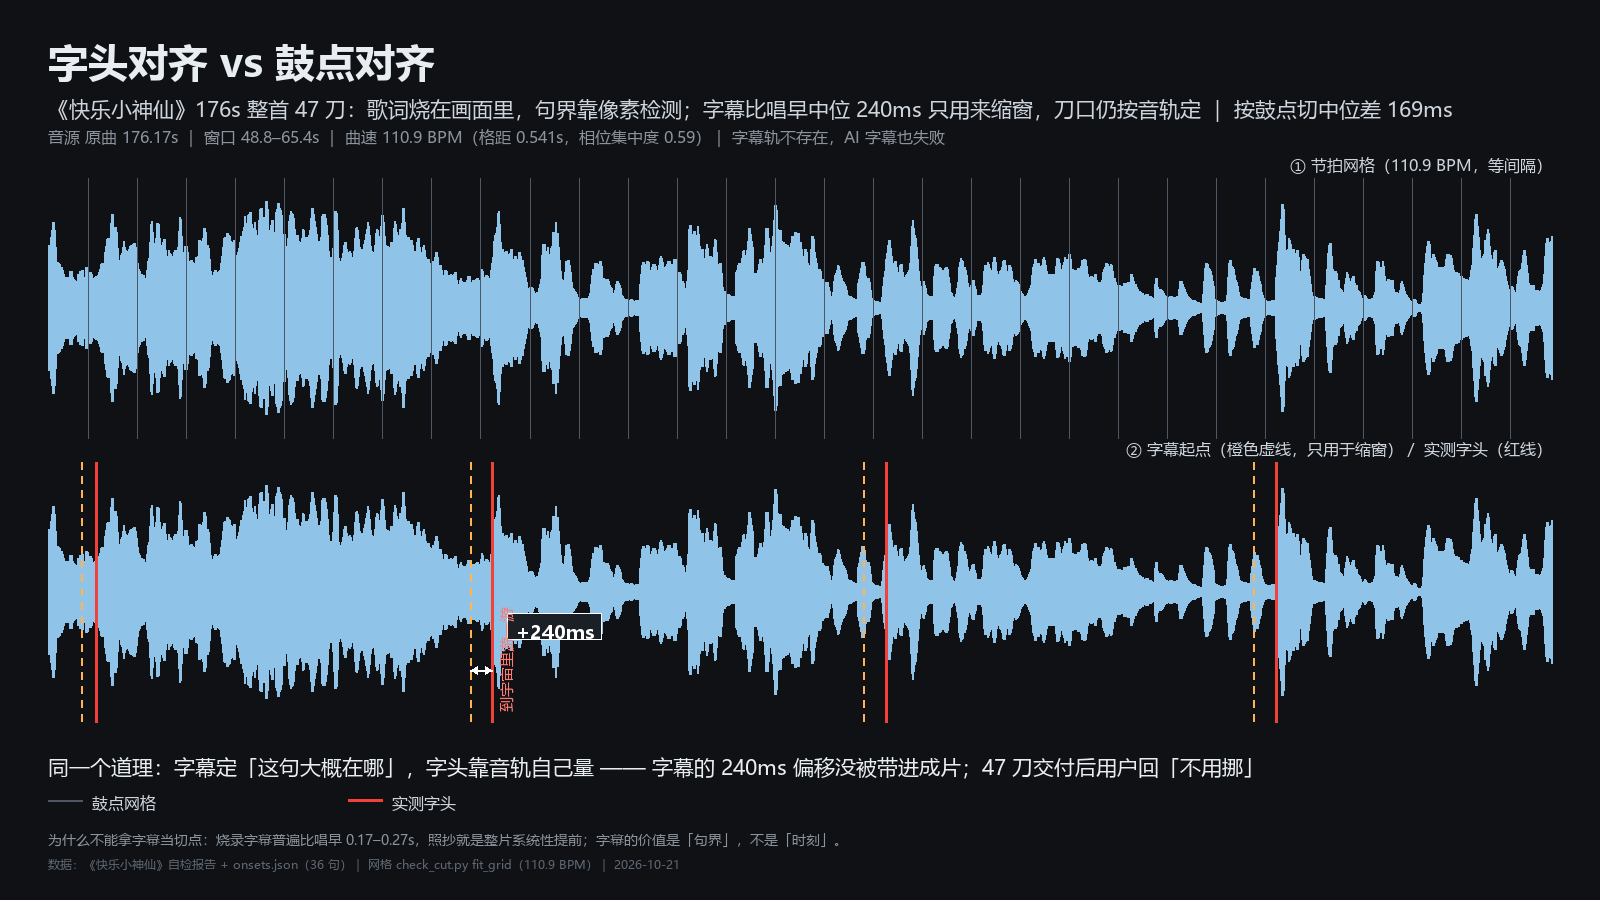
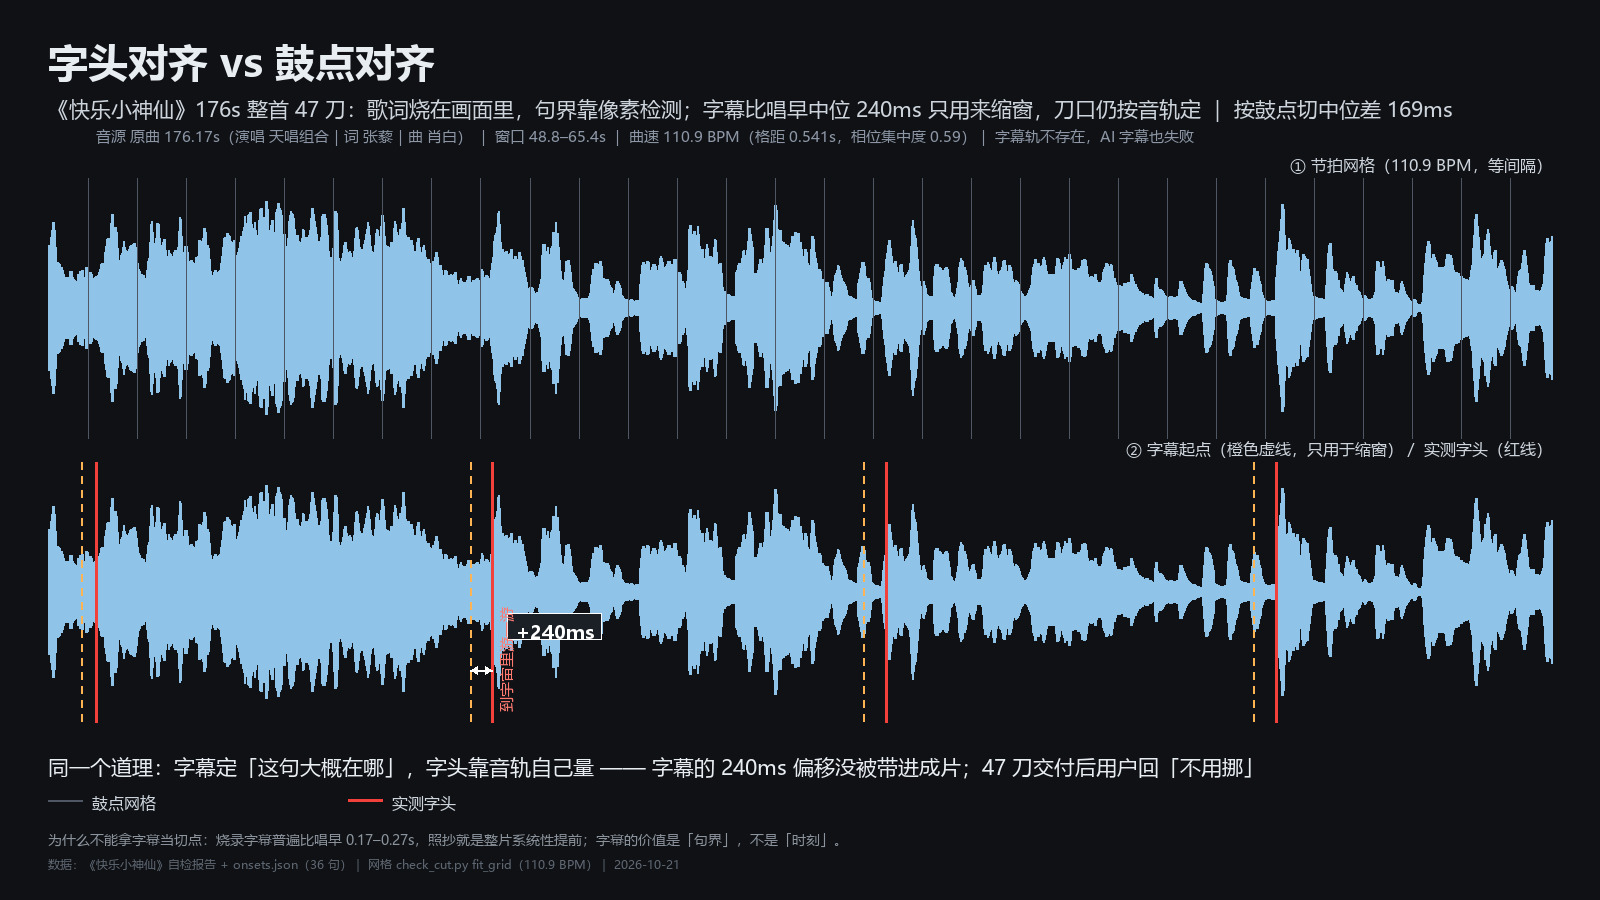
Credit performers and writers on every case and figure; drop the portrait-consent rule from the skill

Changed region(s): [[0.0312, 0.1244, 0.5938, 0.1556], [0.625, 0.1244, 0.75, 0.1556]]

diff --git a/showcase/_tools/render_cutproof.py b/showcase/_tools/render_cutproof.py
@@ -95,7 +95,7 @@ def render_tuimen():
     cuts=[13.30,16.60,20.15,23.35,27.15,30.70]
     img,d=frame("字头对齐 vs 鼓点对齐",
       "《推开世界的门》55s 版 6 个歌词刀：切点贴在「人耳听到的落点」，比检测器报的持续段上升沿晚中位 245ms ｜ 若把刀改贴最近网格线，中位差 214ms",
-      "音源 成片音轨 55.00s ｜ 窗口 12.6–31.9s ｜ 曲速 70.0 BPM（格距 0.857s，相位集中度 0.60）｜ 网格＝低频拟合，非人工标拍")
+      "音源 成片音轨 55.00s（演唱 杨乃文｜词曲 火星电台 / 黄少峰） ｜ 窗口 12.6–31.9s ｜ 曲速 70.0 BPM（格距 0.857s，相位集中度 0.60）｜ 网格＝低频拟合，非人工标拍")
     AU,AD=178,438; BU,BD=462,722
     wave_panel(d,AU,AD,e,tt,T0,T1); grid_lines(d,PH,P,T0,T1,AU,AD)
     d.text((X1,AU-24),"① 节拍网格（70.0 BPM，等间隔）",font=F(16),fill=SUB,anchor="ra")
@@ -130,7 +130,7 @@ def render_kuaile():
     pick=[r for r in rows if T0<=r["onset"]<=T1]
     img,d=frame("字头对齐 vs 鼓点对齐",
       "《快乐小神仙》176s 整首 47 刀：歌词烧在画面里，句界靠像素检测；字幕比唱早中位 240ms 只用来缩窗，刀口仍按音轨定 ｜ 按鼓点切中位差 169ms",
-      "音源 原曲 176.17s ｜ 窗口 48.8–65.4s ｜ 曲速 110.9 BPM（格距 0.541s，相位集中度 0.59）｜ 字幕轨不存在，AI 字幕也失败")
+      "音源 原曲 176.17s（演唱 天唱组合｜词 张藜｜曲 肖白） ｜ 窗口 48.8–65.4s ｜ 曲速 110.9 BPM（格距 0.541s，相位集中度 0.59）｜ 字幕轨不存在，AI 字幕也失败")
     AU,AD=178,438; BU,BD=462,722
     wave_panel(d,AU,AD,e,tt,T0,T1); grid_lines(d,PH,P,T0,T1,AU,AD)
     d.text((X1,AU-24),"① 节拍网格（110.9 BPM，等间隔）",font=F(16),fill=SUB,anchor="ra")

diff --git a/showcase/_tools/render_jiaoao_bilingual.py b/showcase/_tools/render_jiaoao_bilingual.py
@@ -85,8 +85,8 @@ def main():
     text((96, 62), "Lyric onsets vs. the beat grid", 19, GREY)
     text((96, 98), "前半首 20 句实测：中位 0.22s、四分位 0.19–0.32s（单句最大约 0.35s，约半拍 0.357s）；相位法不确定 R=0.04", 15, GREY)
     text((96, 118), "First 20 lines: median gap 0.15–0.30 s (worst line ≈0.35 s ≈ half a beat); phase fit inconclusive, R=0.04", 12, DIM)
-    text((96, 142), "音源《骄傲的少年》· NZBZ ｜ 窗口 78–90s ｜ 曲速 84.0 BPM（网格相位已校正）｜ 半拍 0.357s ｜ 观测点：能量上升沿（比嘴唇字头晚 0.1–0.3s）", 14, GREY)
-    text((96, 162), "Source 《骄傲的少年》· NZBZ | window 78–90 s | tempo 84.0 BPM (8-beat, corrected) | half beat 0.357 s | onsets read at the energy rise (0.1–0.3 s after the lips)", 12, DIM)
+    text((96, 142), "音源《骄傲的少年》（演唱 南征北战NZBZ｜词 赵辰龙｜曲 汀洋）｜ 窗口 78–90s ｜ 曲速 84.0 BPM（网格相位已校正）｜ 半拍 0.357s ｜ 观测点：能量上升沿（比嘴唇字头晚 0.1–0.3s）", 14, GREY)
+    text((96, 162), "Source 《骄傲的少年》 (performed by 南征北战NZBZ; lyrics 赵辰龙; music 汀洋) | window 78–90 s | tempo 84.0 BPM (8-beat, corrected) | half beat 0.357 s | onsets read at the energy rise (0.1–0.3 s after the lips)", 12, DIM)
 
     # ---------- 两条轨 ----------
     tracks = [(226, 470), (544, 800)]

diff --git a/README.md b/README.md
@@ -60,10 +60,12 @@ Each case is the skill at a different stage — what it could do, and what it st
 | - | --- | --- | --- | --- |
 | ① | [`意外-20261018`](showcase/意外-20261018/) | Hermes Agent · Xiaomi MiMo V2.6 | No lyric source: cut per line first, then re-cut on the onset | **Where it started.** Moving from "cut per sentence" to "cut on the word"; the beat grid was off by 160–369 ms |
 | ② | [`骄傲的少年-115s`](showcase/骄傲的少年-115s/) | DeepSeek Harness · DeepSeek V4.1 | Album LRC ↔ audio cross-correlation to solve the offset (**+1.83 s**), 20 lines re-checked at a **0.10 s** median | **Time base solved**, and the A/B split became two separate metrics |
-| ③ | [`推开世界的门-55s`](showcase/推开世界的门-55s/) | Hermes Agent · DeepSeek V4.1 | 55-second chorus slice, 16 cuts, then **five rounds / 9 edits** after delivery | **Revision as a first-class step.** The only case with a full "delivered, then changed" log — including the round where the wrong cuts were edited because of an off-by-one in the figure labels |
+| ③ | [`推开世界的门-55s`](showcase/推开世界的门-55s/) | Hermes Agent · DeepSeek V4.1 | 55-second chorus slice, 16 cuts, then **six rounds / 9 real edits** after delivery | **Revision as a first-class step.** The only case with a full "delivered, then changed" log — including the round where the wrong cuts were edited because of an off-by-one in the figure labels |
 | ④ | [`快乐小神仙-176s`](showcase/快乐小神仙-176s/) | Hermes Agent · DeepSeek V4.1 | No subtitle track: 37 lyric segments detected from burned-in subtitles | **The hard case.** 47 cuts, 176.00 s, zero revisions — and the case where the metrics were openly called out as self-referential |
 
 Specs, per-cut tables and self-checks live inside each folder.
+
+Track credits: 《意外》 — 薛之谦 (words and music 杨子朴) ｜ 《骄傲的少年》 — 南征北战NZBZ (words 赵辰龙, music 汀洋) ｜ 《推开世界的门》 — 杨乃文 (words and music 火星电台 / 黄少峰) ｜ 《快乐小神仙》 — 天唱组合 (words 张藜, music 肖白). All rights stay with their owners; these four cases are technical write-ups only.
 
 ---
 

diff --git a/README.zh-CN.md b/README.zh-CN.md
@@ -58,10 +58,12 @@
 | - | -------------------------------------- | -------------------------------- | --------------------------------------------------- | ---------------------------------------------- |
 | ① | [`意外-20261018`](showcase/意外-20261018/) | Hermes Agent · 小米 MiMo V2.6 系列   | 没有歌词来源：先按句切，再改成贴字头                                  | **开始的地方**。从「按句切」到「贴字头」，按拍切会差 160–369 毫秒        |
 | ② | [`骄傲的少年-115s`](showcase/骄傲的少年-115s/)   | DeepSeek Harness · DeepSeek V4.1 | 专辑版 LRC ↔ 音轨互相关解偏移（**+1.83 秒**），20 句复核中位 **0.10 秒** | **把时间基准解出来了**，A/B 从这时候分成两个指标                   |
-| ③ | [`推开世界的门-55s`](showcase/推开世界的门-55s/)   | Hermes Agent · DeepSeek V4.1     | 副歌切片 55 秒、16 刀，交付后又改了 **五轮 9 处**                    | **改片是一等步骤**。唯一一份完整的「交付后怎么改」实录，包括那次按图注号改错了 4 刀  |
+| ③ | [`推开世界的门-55s`](showcase/推开世界的门-55s/)   | Hermes Agent · DeepSeek V4.1     | 副歌切片 55 秒、16 刀，交付后又改了 **六轮、9 处实改**                    | **改片是一等步骤**。唯一一份完整的「交付后怎么改」实录，包括那次按图注号改错了 4 刀  |
 | ④ | [`快乐小神仙-176s`](showcase/快乐小神仙-176s/)   | Hermes Agent · DeepSeek V4.1     | 没有字幕轨：靠画面烧录字幕检出 37 段句界                              | **最难的一种**。47 刀、176.00 秒、0 返修；也是唯一明写「指标不能自证」的一份 |
 
 规格、逐刀明细、自检报告都在各自目录里。
+
+曲目署名：《意外》薛之谦（词曲 杨子朴）｜《骄傲的少年》南征北战NZBZ（词 赵辰龙 / 曲 汀洋）｜《推开世界的门》杨乃文（词曲 火星电台 / 黄少峰）｜《快乐小神仙》天唱组合（词 张藜 / 曲 肖白）。词曲与录音的权利归各权利人，这四个案例只做技术复盘。
 
 ---
 

diff --git a/CREDITS.md b/CREDITS.md
@@ -16,6 +16,22 @@ This skill calls other tools rather than bundling them. Each keeps its own licen
 figure scripts under `showcase/_tools/` (`render_cutproof.py`, `render_jiaoao_bilingual.py`,
 `render_sequence.py`, `render_legend.py`) are original to this repository (MIT).
 
+## Music used in the case studies
+
+Each case is a technical write-up of an edit made to the author's own footage. The songs are
+third-party works, credited here, and are **not** redistributed in any form:
+
+| Case | Song | Performer | Words / music |
+|---|---|---|---|
+| ① | 《意外》 | 薛之谦 | words and music 杨子朴 |
+| ② | 《骄傲的少年》 | 南征北战NZBZ | words 赵辰龙 / music 汀洋 |
+| ③ | 《推开世界的门》 | 杨乃文 | words and music 火星电台 / 黄少峰 |
+| ④ | 《快乐小神仙》 | 天唱组合 | words 张藜 / music 肖白 |
+
+All rights in the songs, the performances and the recordings stay with their owners. Only
+still frames, waveform plots, lyrics fragments needed to show alignment, and timing tables
+appear in this repository.
+
 ## About the case studies
 
 The four folders under `showcase/` are records of real edits. The **footage is the author's

diff --git a/showcase/骄傲的少年-115s/README.md b/showcase/骄傲的少年-115s/README.md
@@ -1,5 +1,7 @@
 # 案例②：《骄傲的少年》半首（115.7 秒 / 33 刀）
 
+**曲目**：《骄傲的少年》｜演唱 南征北战NZBZ｜词 赵辰龙｜曲 汀洋
+
 > 这是技能从「能剪」走到「有基准」的一版：把 LRC 的行时间靠互相关钉到音轨上，
 > 再用实测字头下刀。A / B 两个指标也是在这一版分成两个数的。
 
@@ -35,7 +37,7 @@
 |---|---|
 | `镜头表.md` | 33 刀逐刀明细 |
 | `自检报告.md` | 规格、体检、v1→v2 改动台账 |
-| `分镜首帧.jpg` | 33 格首帧拼图 |
+| `分镜首帧.jpg` | 33 格首帧拼图（那一版图注 `#00`–`#32`；后来统一成 `#01` 起，见案例③ 的编号说明） |
 | `sequence.png` | 刀 13–16 的四刀分镜条（中英双语，四格都取自本片） |
 | `cut-proof.png` | 双轨刀口图：网格 vs 实测字头（中英双语同一张，两份 README 共用；由 `showcase/_tools/render_jiaoao_bilingual.py` 重出） |
 | `cut-frame.png` | 刀口帧对照：切点前 1 帧 vs 切点帧 |

diff --git a/showcase/推开世界的门-55s/README.md b/showcase/推开世界的门-55s/README.md
@@ -1,5 +1,7 @@
 # 案例：《推开世界的门》55 秒切片
 
+**曲目**：《推开世界的门》｜演唱 杨乃文｜词曲 火星电台 / 黄少峰
+
 > 第三份案例。前两份回答「一次做对」和「没有 LRC 也能做」，这一份回答另外两件事：
 > **只剪一段副歌怎么切**，以及**交付跟用户来回改的时候，接口该怎么设计**。
 
@@ -58,7 +60,7 @@
 1. **历史纪念地 / 战争记忆**：不碰（桥面素材这类）。
 2. **市政隐患 / 破损设施**：不碰（会被读成对某地治理的指认）。
 3. **可读的电话、门牌、车牌**：不打码，直接换窗口。
-4. **第三人近景正脸**：没有授权就不用。
+4. **使用者自定的排除项**：第三人近景正脸这一类，是这一版作者自己的风险偏好，不是技能规则——换不换，由用的人自己定。
 
 弃用理由已回写进素材索引，下次挑素材自动跳过。
 

diff --git a/showcase/推开世界的门-55s/自检报告.md b/showcase/推开世界的门-55s/自检报告.md
@@ -81,7 +81,7 @@ B 按鼓点网格切：中位 +214ms ｜ 绝对中位 214ms
 
 - 原素材是「路口隐患.mp4」里的破损路面与井盖，属于市政问题记录。考虑到成片可能公开发布，这类画面容易被当成对某地治理的指认，换成中性画面更稳妥。
 - 替换素材：`20260308_144532_082.mp4` 入点 7:30，看台环廊望向球场——灰调水泥廊、红色座椅、绿茵场，无文字横幅、无可读电话、无近景人脸。
-- 选材排除：历史纪念地（桥面素材一组不用）、市政隐患/破损设施、含可读电话号码的牌面、第三人近景正脸。
+- 选材排除（**本版按使用者自定的排除项**，不是技能规则）：历史纪念地、市政隐患/破损设施、含可读电话号码的牌面、第三人近景正脸。
 - 时长与切点不变（40.80 / 3.90s），只换画面。
 
 ## 七、第五次改动（漫展那一刀）

diff --git a/skills/lyric-onset-montage/references/selection.md b/skills/lyric-onset-montage/references/selection.md
@@ -30,7 +30,7 @@
 - 这段在原片里前后是什么？（接站、欢迎、访谈里的半句话，塞进混剪会引出不相干叙事）
 - 画面里有人、有牌、有可读文字：
   - 车牌 / 电话 / 门牌 / 二维码 → **换窗口，不打码**；
-  - 第三人近景正脸 → 没有授权就换镜头；
+  - 第三人近景正脸 → 属肖像风险，**技能不预设**用不用，交使用者自己定；要用就先用逐帧确认画面里到底是谁、拍得多近；
   - 可能被读成对某个地方或某个人的指认 → 换中性空镜。
 - 做法：把「这两段我拿不准」单独列出来，请用户逐段说「要 / 不要」，**不替用户拍板**，也不在索引里逐条追问。
 

diff --git a/showcase/快乐小神仙-176s/README.md b/showcase/快乐小神仙-176s/README.md
@@ -1,5 +1,7 @@
 # 案例：《快乐小神仙》整首（176 秒 / 47 刀）
 
+**曲目**：《快乐小神仙》｜演唱 天唱组合｜词 张藜｜曲 肖白
+
 > 第四份案例，也是**四份里唯一一份 0 返修的**：交付后用户只回了三个字——「不用挪」。
 > 前面三份都在回答「怎么把刀对准」，这一份回答另一个问题：**没有字幕轨、没有 LRC，只有烧在画面里的字幕，能不能一遍做准。**
 

diff --git a/showcase/意外-20261018/README.md b/showcase/意外-20261018/README.md
@@ -1,5 +1,7 @@
 # 案例①：《意外》混剪（17 刀 / 80.1 BPM）
 
+**曲目**：《意外》｜演唱 薛之谦｜词曲 杨子朴
+
 > 开始的地方。当时先按「一句一刀」切，用户一句「要等那个『不』字的瞬间」，
 > 才把切点从句子改成字头。技能里「切点贴字头」这条，就是从这一版长出来的。
 
